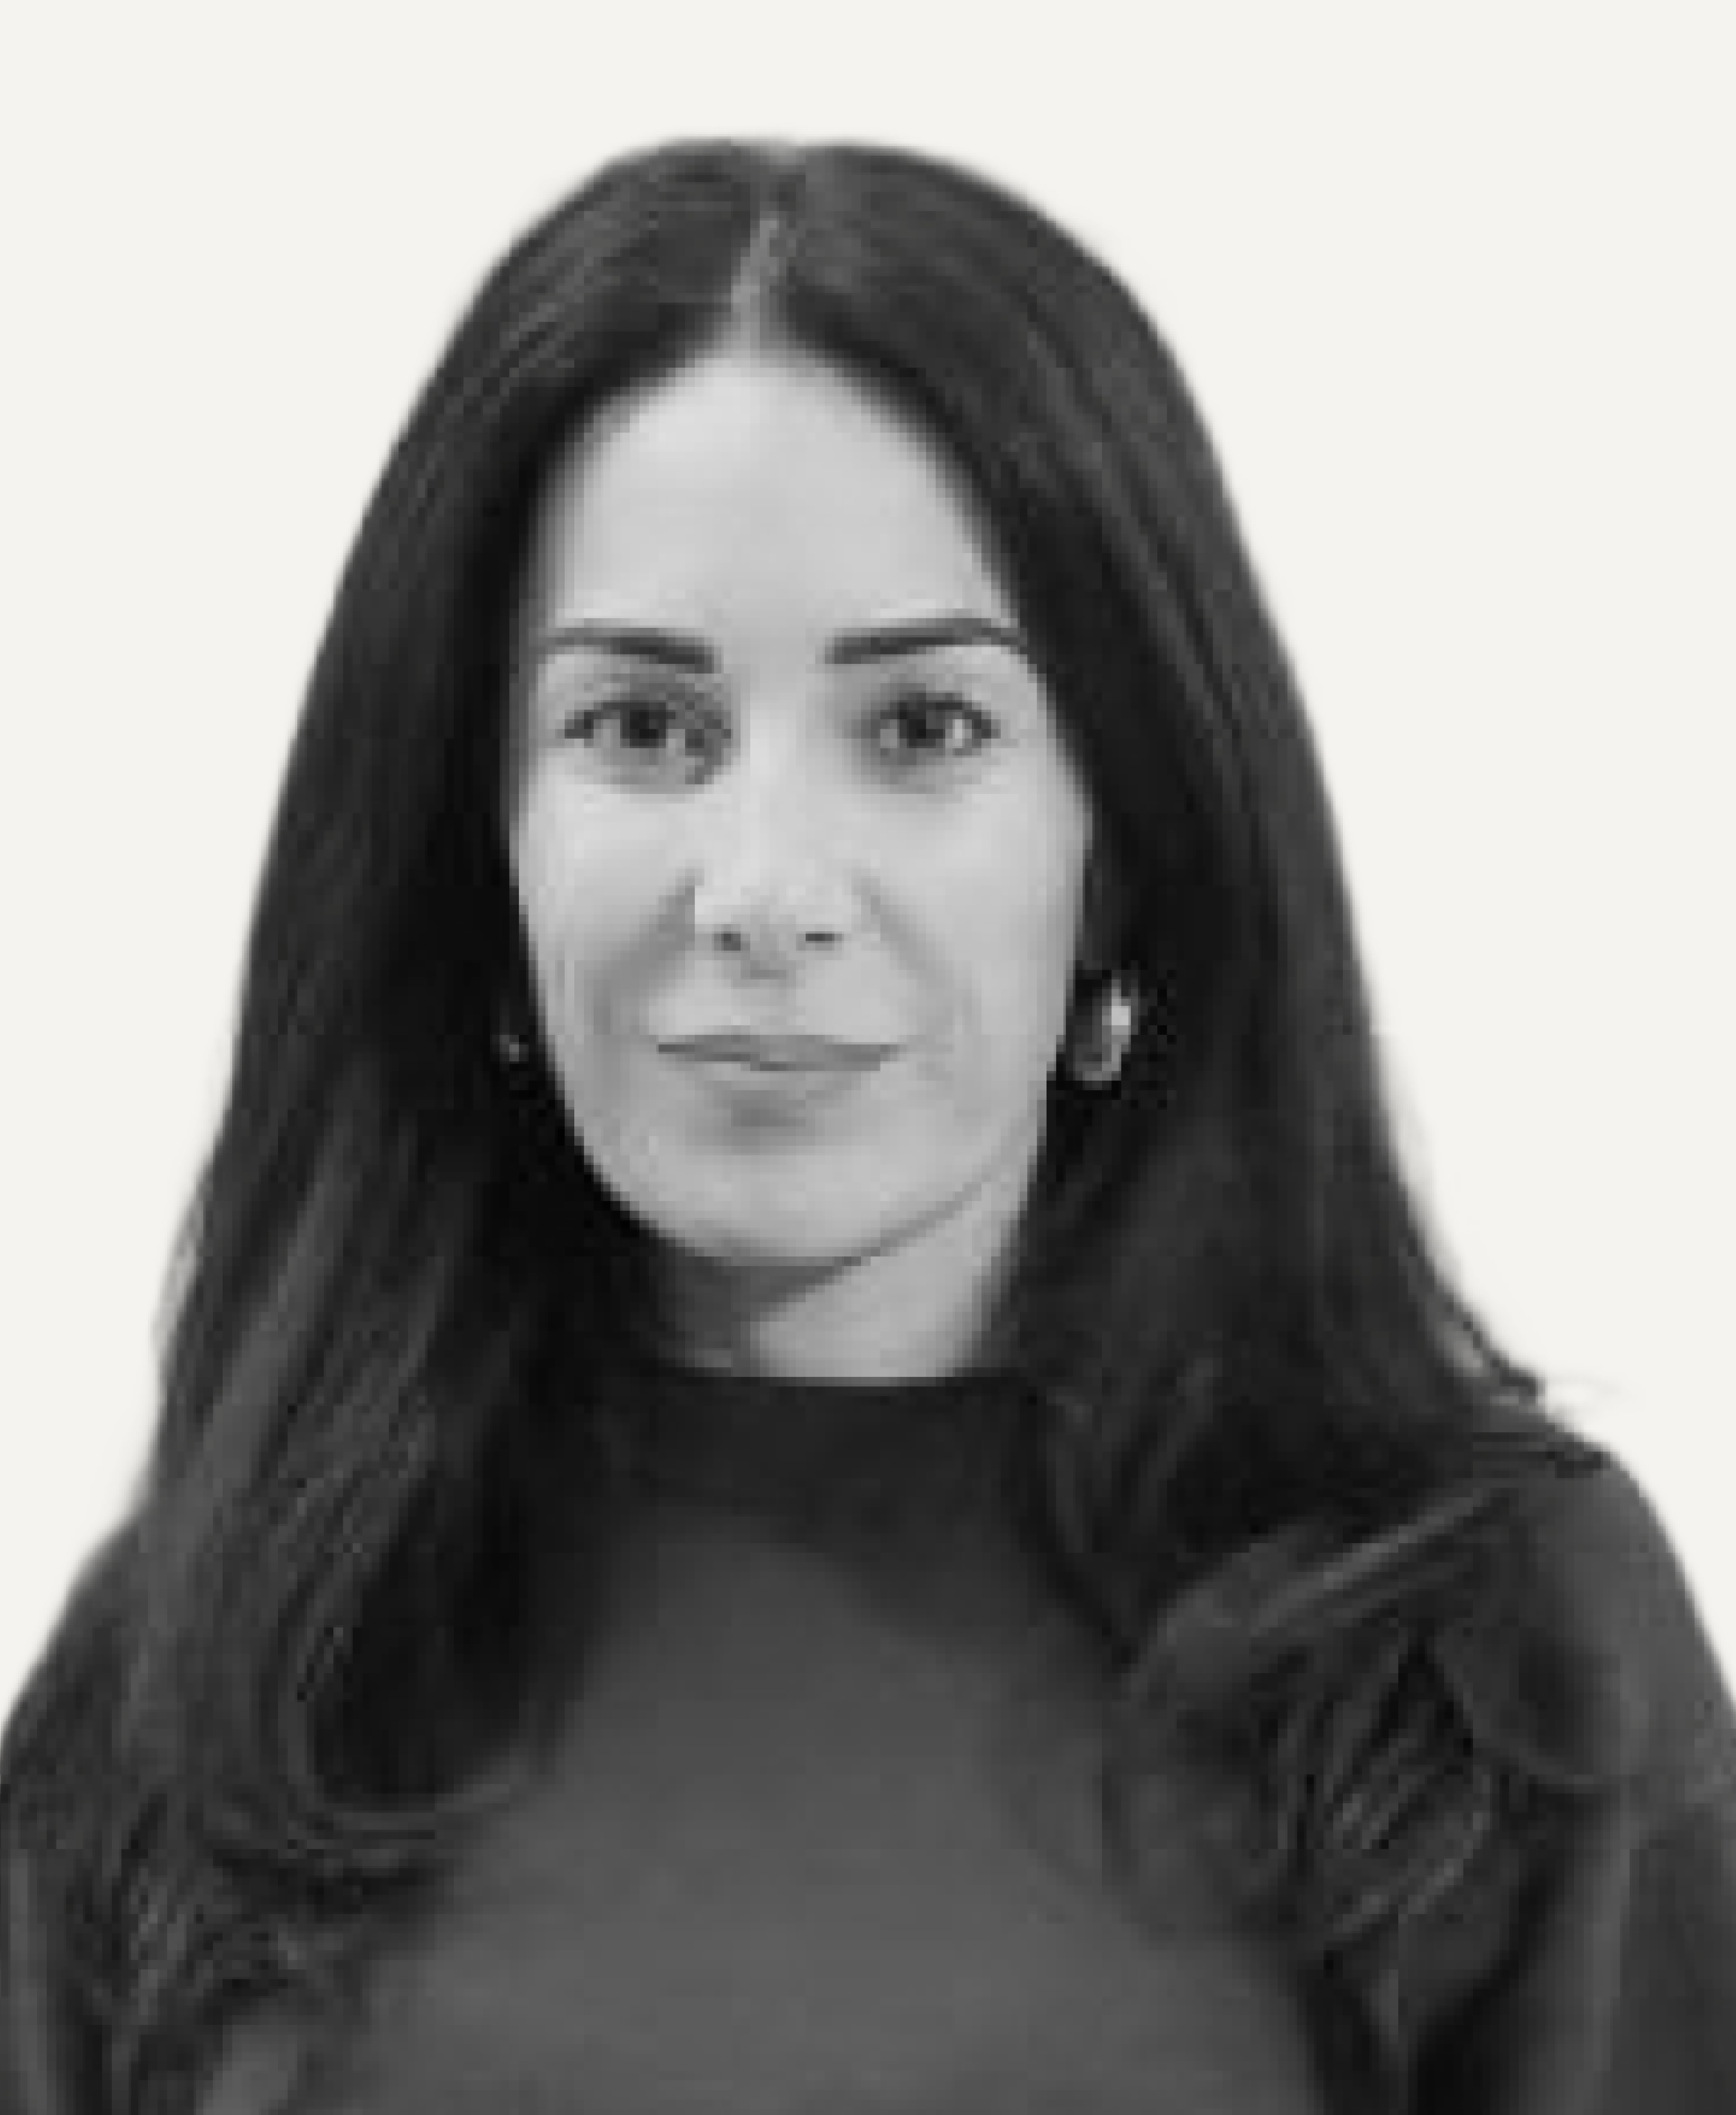
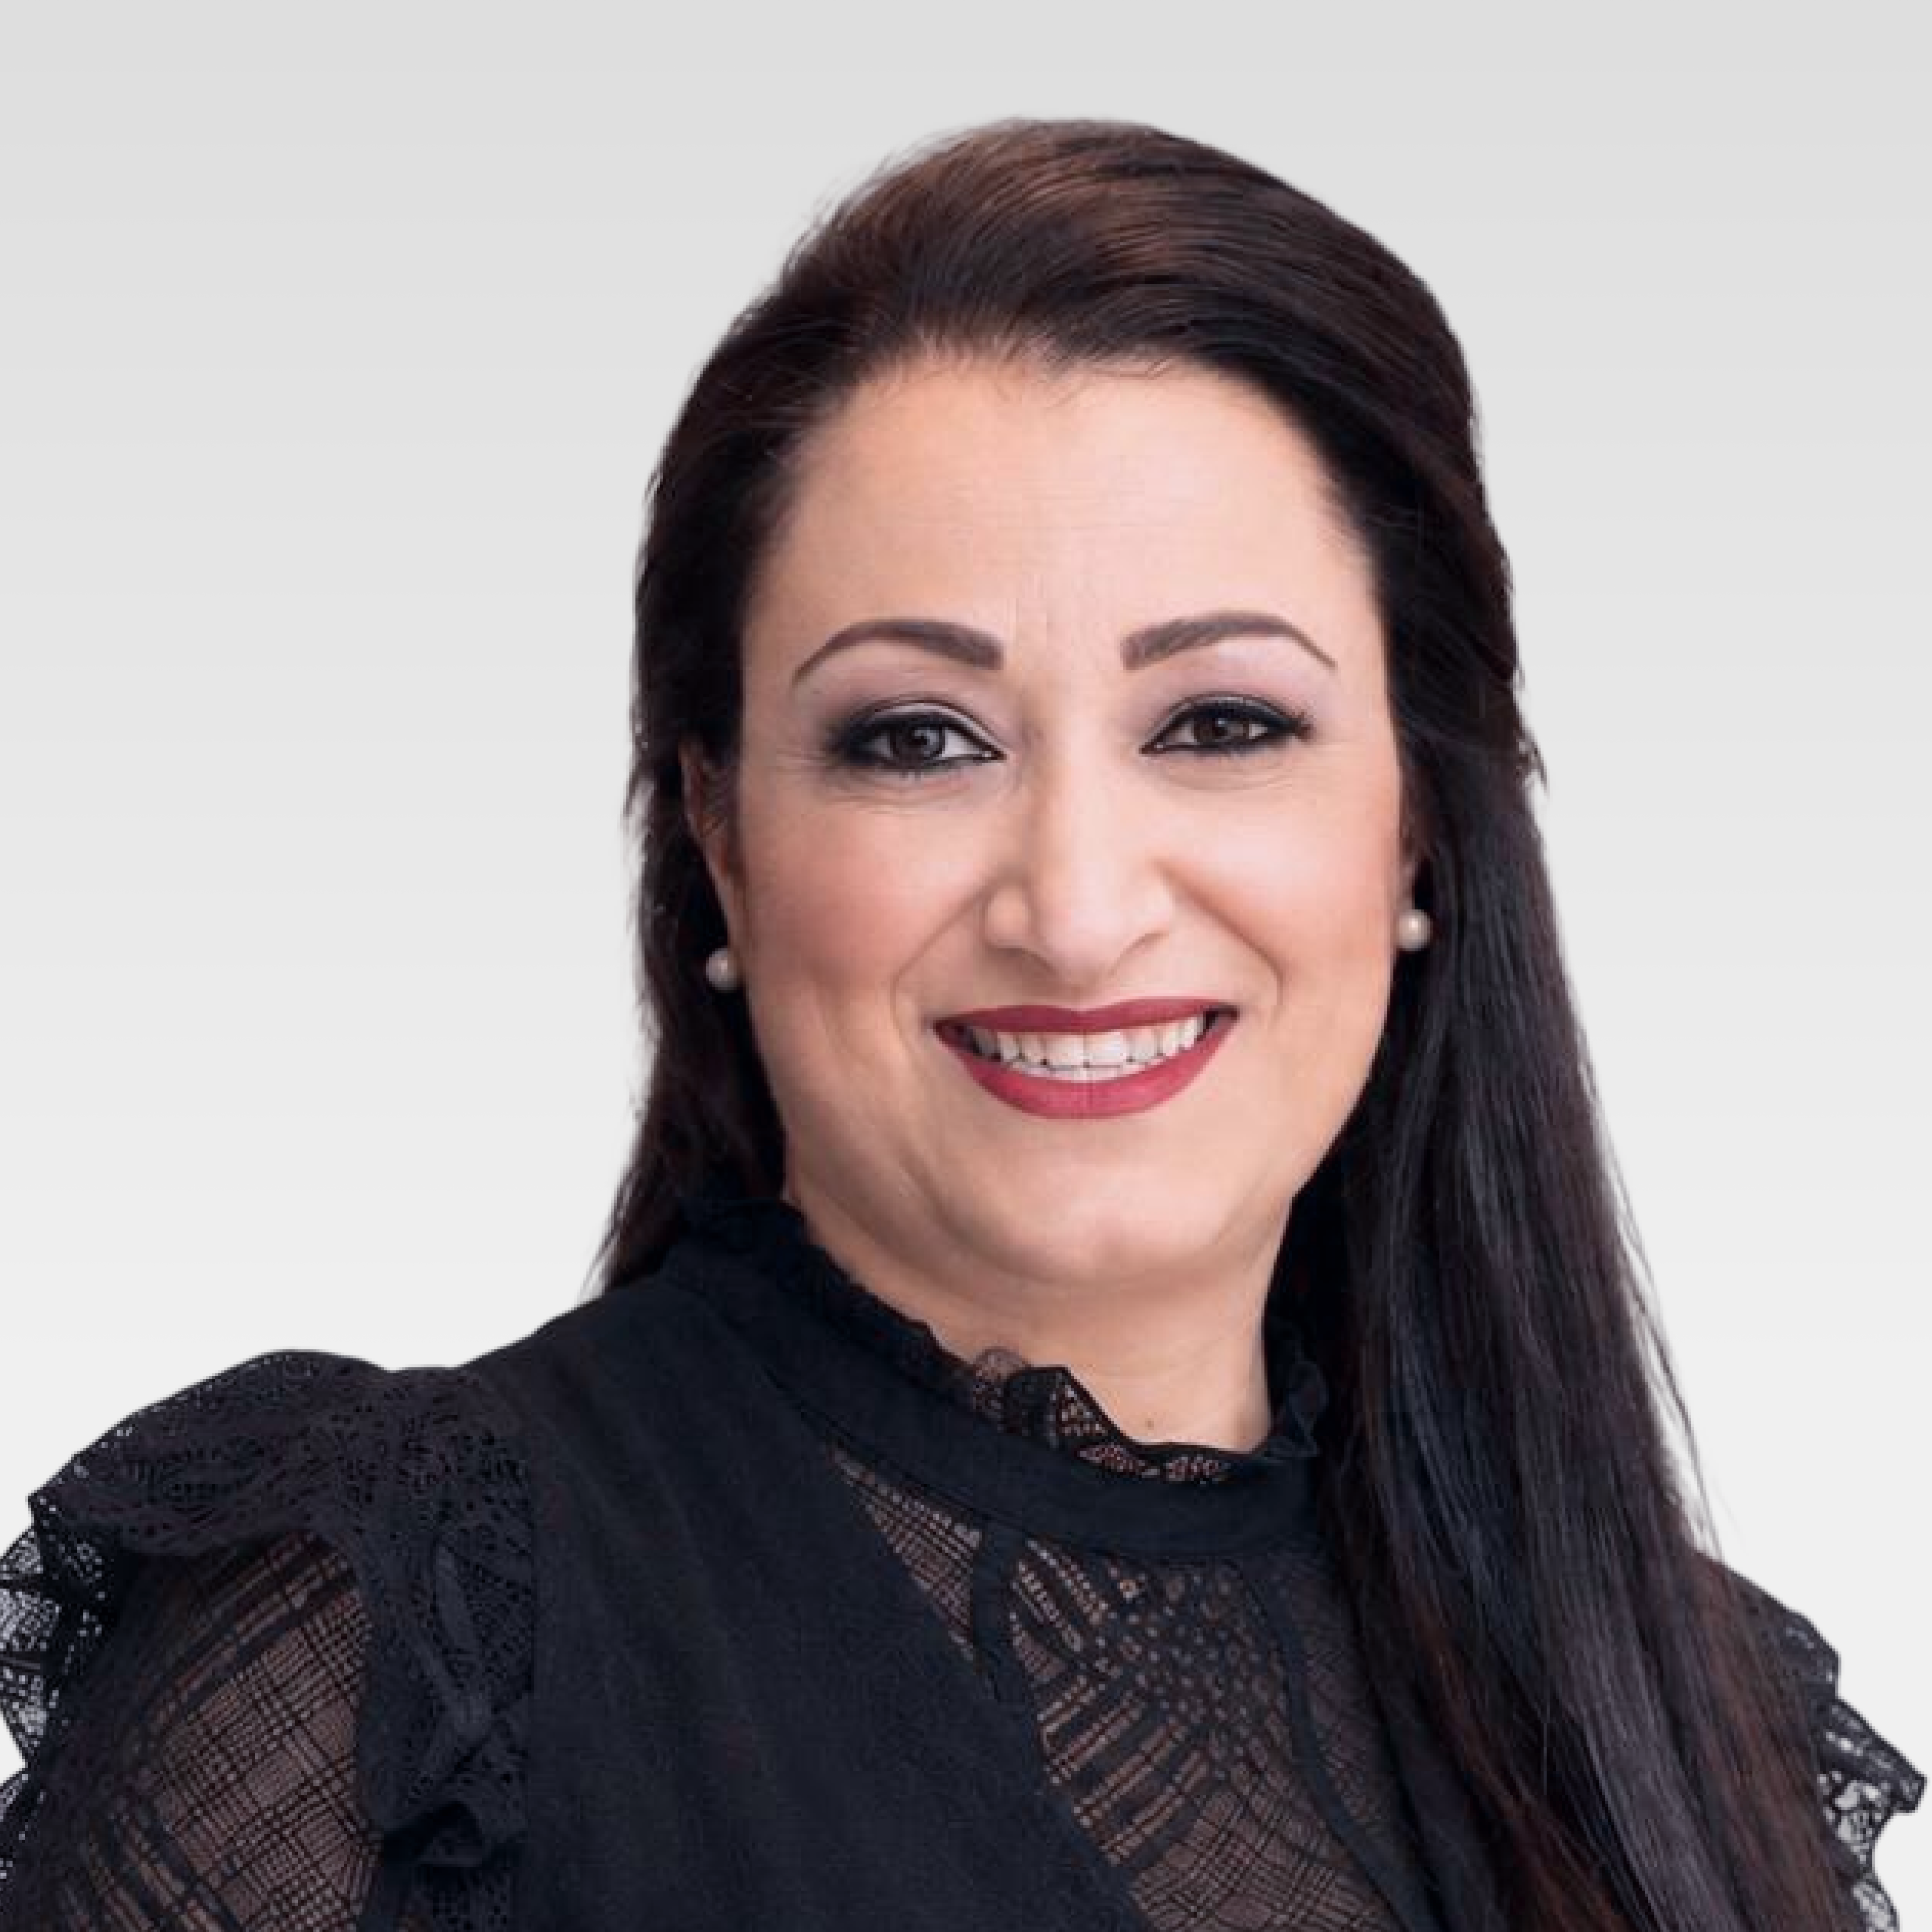
changes

diff --git a/about.html b/about.html
@@ -75,7 +75,9 @@
       color: #131f1f;
       border-bottom: 1px solid rgba(0, 0, 0, 0.04);
     }
-
+  .serieslink{
+      text-decoration: unset;
+    }
     .hero-announcement strong {
       font-weight: 600;
     }
@@ -1112,6 +1114,9 @@
     .footer-socials a:hover {
       color: var(--dark-text);
     }
+    .serieslink{
+      text-decoration: unset;
+    }
 
     @media (max-width: 900px) {
       .hero-announcement {
@@ -1123,9 +1128,9 @@
 
 <body>
   <!-- ═══ ANNOUNCEMENT ═══════════════════════════════════════ -->
-   <a href="https://gems.vip/kai" target="_blank">
+   <a class="serieslink" href="https://gems.vip/kai" target="_blank">
   <div class="hero-announcement">
-    <span><strong>News!</strong> Kai is raising Series A via Gems</span>
+    <span><strong>News!</strong> Kai is raising Series A to Seed</span>
   </div>
   </a>
 
@@ -1234,7 +1239,7 @@
         <p class="team-role">Head of Banking Division</p>
       </div>
       <div class="team-member reveal d2">
-        <div class="team-photo"><img src="assets/Ziv Oz-1.png" alt=""></div>
+        <div class="team-photo"><img src="assets/Ziv Oz.png" alt=""></div>
         <h4 class="team-name">Ziv Oz</h4>
         <p class="team-role">Head of Marketing</p>
       </div>

diff --git a/index.html b/index.html
@@ -657,6 +657,9 @@
       position: relative;
       z-index: 1;
     }
+     .serieslink{
+      text-decoration: unset;
+    }
 
     .floating-disclaimer {
       position: fixed;
@@ -4299,7 +4302,7 @@
 
 <body>
   <!-- ═══ ANNOUNCEMENT ═══════════════════════════════════════ -->
-  <a href="https://gems.vip/kai" target="_blank">
+  <a class="serieslink" href="https://gems.vip/kai" target="_blank">
     <div class="hero-announcement">
     <span><strong>News!</strong> Kai is raising Series A via Gems Launchpad
     </span>